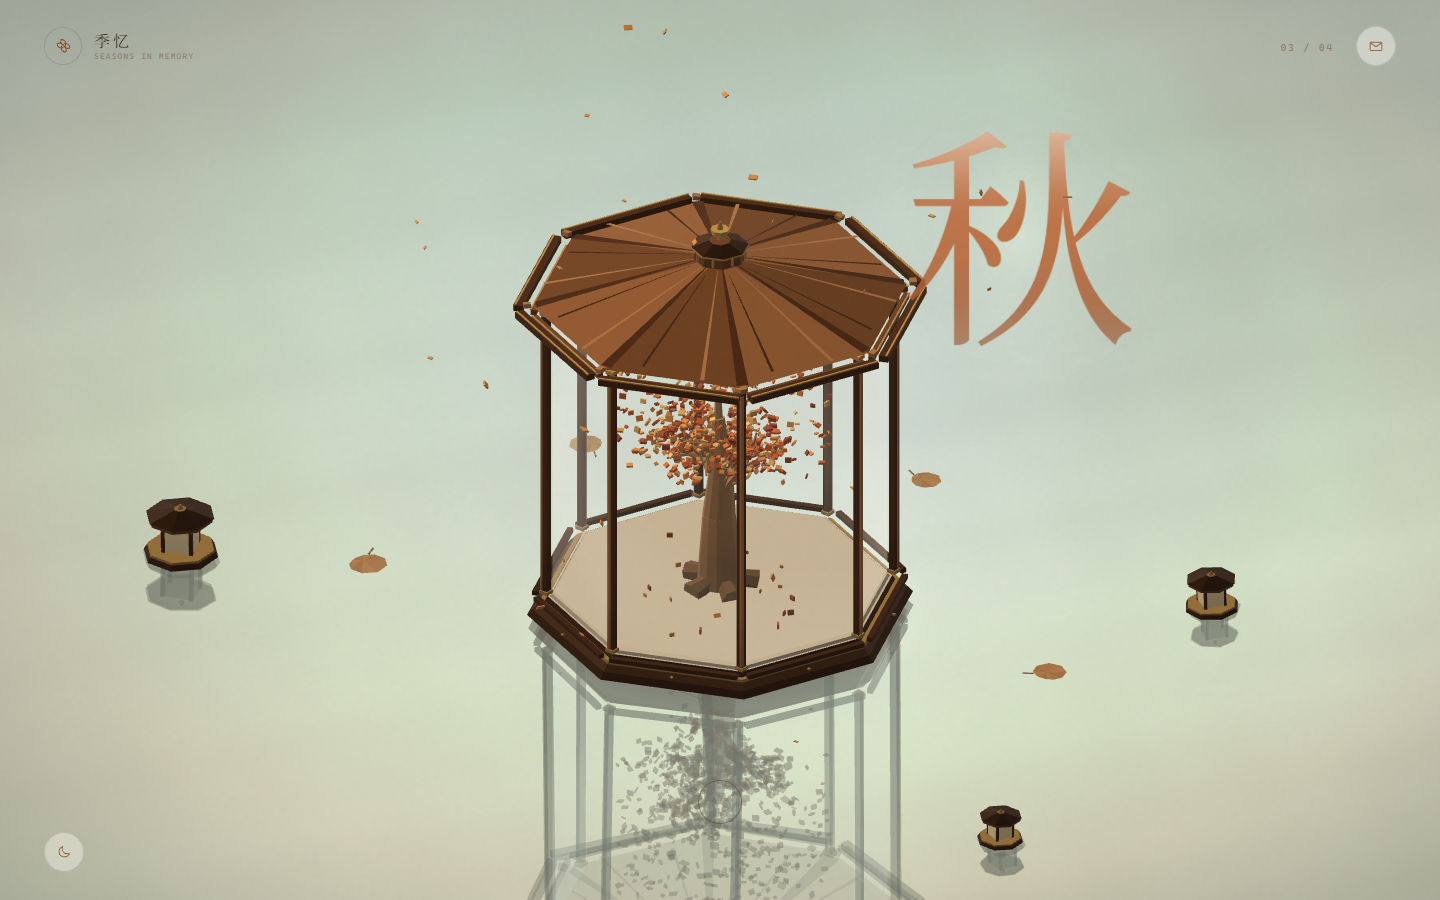
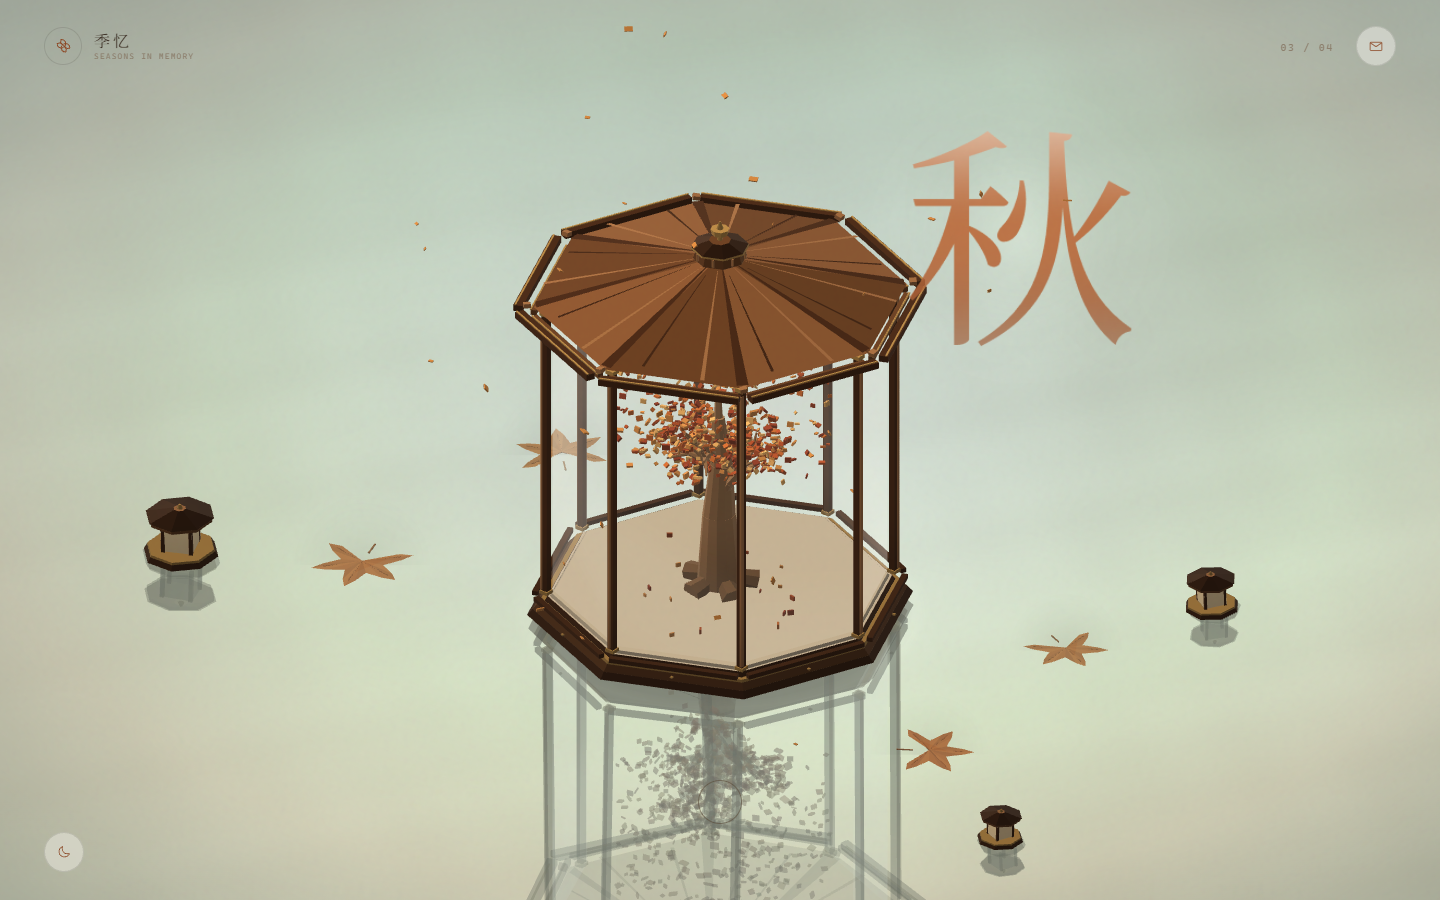
季忆 · 枫叶、碎花瓣、细茎粉荷与手机水景留白

diff --git a/assets/js/world.js b/assets/js/world.js
@@ -559,7 +559,7 @@
     return g;
   }
 
-  function buildMapleLeaf() {
+  function buildMapleLeafOld() {
     const g = Geo();
     const center = [0, 0.012, 0];
     const R = 0.46;
@@ -606,16 +606,44 @@
 
   function buildFloatPetal() {
     const g = Geo();
-    const N = 9;
+    const center = [0, 0.02, 0];
     const cols = [[1, 0.84, 0.88], [1, 0.9, 0.93], [0.98, 0.8, 0.86]];
-    const center = [0, 0.008, 0];
+    const N = 14;
     const pts = [];
     for (let i = 0; i < N; i++) {
       const a = (i / N) * TAU;
-      const r = 0.19 * (0.82 + 0.18 * Math.sin(a * 3.0 + 0.5));
-      pts.push([Math.cos(a) * r, 0.004, Math.sin(a) * r]);
+      const x = Math.sin(a) * 0.12 * (0.9 + 0.1 * Math.cos(2 * a));
+      const z = -0.05 + Math.cos(a) * 0.21;
+      pts.push([x, 0.006, z]);
     }
     for (let i = 0; i < N; i++) pushTri(g, center, pts[i], pts[(i + 1) % N], [0, 1, 0], cols[i % 3]);
+    return g;
+  }
+
+  function buildMapleLeaf() {
+    const g = Geo();
+    const center = [0, 0.02, 0];
+    const cols = [[0.72, 0.45, 0.22], [0.8, 0.52, 0.26], [0.64, 0.4, 0.2]];
+    const order = [-Math.PI / 6, Math.PI / 6, Math.PI / 2, (5 * Math.PI) / 6, (7 * Math.PI) / 6];
+    const pts = [];
+    for (let li = 0; li < 5; li++) {
+      const a = order[li];
+      const aPrev = order[(li + 4) % 5];
+      const aNext = order[(li + 1) % 5];
+      const aNotchL = (aPrev + a) / 2;
+      const aNotchR = (a + aNext) / 2;
+      pts.push([Math.cos(aNotchL) * 0.24, 0.004, Math.sin(aNotchL) * 0.24]);
+      pts.push([Math.cos(a - 0.16) * 0.42, 0.007, Math.sin(a - 0.16) * 0.42]);
+      pts.push([Math.cos(a) * 0.55, 0.01, Math.sin(a) * 0.55]);
+      pts.push([Math.cos(a + 0.16) * 0.42, 0.007, Math.sin(a + 0.16) * 0.42]);
+    }
+    for (let i = 0; i < pts.length; i++) pushTri(g, center, pts[i], pts[(i + 1) % pts.length], [0, 1, 0], cols[i % 3]);
+    for (let k = 0; k < 5; k++) {
+      const a = order[k];
+      const r = 0.42;
+      addBox(g, Math.cos(a) * r * 0.5, 0.012, Math.sin(a) * r * 0.5, 0.012, 0.005, r, hexToRgb('#7a4a28'), Math.PI / 2 - a, 0);
+    }
+    addBox(g, 0, 0.006, -0.3, 0.018, 0.008, 0.2, hexToRgb('#6e4a2c'), 0, 0);
     return g;
   }
 
@@ -896,7 +924,7 @@
     const smalls = [
       { xf: -1.15, zf: 0.55, s: 1.3, phase: 0.7, rot: 0.4 },
       { xf: 1.15, zf: 0.45, s: 0.8, phase: 2.4, rot: 1.2 },
-      { xf: 0.9, zf: -0.7, s: 1.0, phase: 4.1, rot: 2.6 },
+      { xf: 0.0, zf: 1.2, s: 1.0, phase: 4.1, rot: 2.6 },
     ];
     const lotusLeafMesh = renderer.makeMesh(buildLotusLeaf());
     const mapleMesh = renderer.makeMesh(buildMapleLeaf());
@@ -906,27 +934,29 @@
     const blossomMesh = renderer.makeMesh(buildBlossom());
     const decos = {
       spring: [
-        { t: 'blossom', x: -4.2, z: 1.8, rot: 0.4, s: 1.0, tint: [1, 0.86, 0.9] },
-        { t: 'blossom', x: 4.2, z: 1.2, rot: 2.0, s: 1.2, tint: [1, 0.92, 0.94] },
-        { t: 'blossom', x: -4.0, z: -1.8, rot: 4.2, s: 0.85, tint: [1, 0.8, 0.86] },
-        { t: 'blossom', x: 4.0, z: -1.8, rot: 1.3, s: 1.05, tint: [1, 0.9, 0.92] },
+        { t: 'float', x: -4.2, z: 1.8, rot: 0.4, s: 0.8, tint: [1, 0.86, 0.9] },
+        { t: 'float', x: 4.2, z: 1.2, rot: 2.0, s: 0.9, tint: [1, 0.92, 0.94] },
+        { t: 'float', x: -4.0, z: -1.8, rot: 4.2, s: 0.7, tint: [1, 0.8, 0.86] },
+        { t: 'float', x: 4.0, z: -1.8, rot: 1.3, s: 0.85, tint: [1, 0.9, 0.92] },
+        { t: 'float', x: -1.4, z: 3.4, rot: 5.1, s: 0.75, tint: [1, 0.84, 0.88] },
+        { t: 'float', x: 1.6, z: 3.2, rot: 3.3, s: 0.8, tint: [1, 0.88, 0.9] },
       ],
       summer: [
-        { t: 'leaf', x: -4.2, z: 1.0, rot: 0.2, s: 1.35 },
-        { t: 'leaf', x: 4.4, z: 0.2, rot: 1.8, s: 1.15 },
+        { t: 'leaf', x: -4.2, z: 1.8, rot: 0.2, s: 1.3 },
+        { t: 'leaf', x: 4.2, z: 1.2, rot: 1.8, s: 1.15 },
         { t: 'leaf', x: -4.0, z: -1.8, rot: 3.2, s: 1.0 },
-        { t: 'flower', x: 4.2, z: -0.6, rot: 1.0, s: 1.15 },
+        { t: 'flower', x: 4.0, z: -1.8, rot: 1.0, s: 1.25 },
       ],
       autumn: [
-        { t: 'leaf2', x: -4.2, z: 1.8, rot: 0.3, s: 1.35, tint: [1, 0.8, 0.62] },
-        { t: 'leaf2', x: 4.2, z: -1.2, rot: 2.1, s: 1.15, tint: [1, 0.72, 0.54] },
-        { t: 'leaf2', x: -3.8, z: -2.2, rot: 4.0, s: 1.2, tint: [1, 0.9, 0.74] },
-        { t: 'leaf2', x: 0.0, z: -4.0, rot: 1.2, s: 1.1, tint: [1, 0.84, 0.66] },
+        { t: 'maple', x: -4.2, z: 1.8, rot: 0.3, s: 1.15, tint: [1, 0.8, 0.62] },
+        { t: 'maple', x: 4.2, z: 1.2, rot: 2.1, s: 1.0, tint: [1, 0.72, 0.54] },
+        { t: 'maple', x: -4.0, z: -1.8, rot: 4.0, s: 1.1, tint: [1, 0.9, 0.74] },
+        { t: 'maple', x: 4.0, z: -1.8, rot: 1.2, s: 0.95, tint: [1, 0.84, 0.66] },
       ],
       winter: [
-        { t: 'ice', x: -4.2, z: 1.2, rot: 0.4, s: 1.35 },
-        { t: 'ice', x: 4.4, z: -0.8, rot: 1.6, s: 1.1 },
-        { t: 'ice', x: -2.4, z: -3.0, rot: 3.0, s: 1.2 },
+        { t: 'ice', x: -4.2, z: 1.8, rot: 0.4, s: 1.3 },
+        { t: 'ice', x: 4.2, z: 1.2, rot: 1.6, s: 1.1 },
+        { t: 'ice', x: -4.0, z: -1.8, rot: 3.0, s: 1.2 },
       ],
     };
 
@@ -1394,14 +1424,14 @@
       const smallPos = (S) => {
         const sx = spread * S.xf + Math.sin(wt * 0.12 + S.phase) * 0.1;
         const sz = spread * S.zf + Math.cos(wt * 0.1 + S.phase) * 0.08;
-        const bob = 0.012 + 0.01 * Math.sin(wt * 0.8 + S.phase);
+        const bob = 0.016 + 0.014 * Math.sin(wt * 0.8 + S.phase);
         const sc = S.s * (1.0 + 0.035 * Math.sin(wt * 0.55 + S.phase));
         return [sx, sz, bob, sc];
       };
       for (let si = 0; si < smalls.length; si++) {
         const S = smalls[si];
         const [sx, sz, bob, sc] = smallPos(S);
-        m4.compose(matA, sx, bob, sz, S.rot + wt * 0.02, 0.02 * Math.sin(wt * 0.6 + S.phase), 0.02 * Math.cos(wt * 0.5 + S.phase), sc, sc, sc);
+        m4.compose(matA, sx, bob, sz, S.rot + wt * 0.02, 0.03 * Math.sin(wt * 0.6 + S.phase), 0.03 * Math.cos(wt * 0.5 + S.phase), sc, sc, sc);
         m4.multiply(matD, mirror, matA);
         renderer.drawMesh(smallFrameMesh, matD, { ghost: true, opacity: 0.2, dim: 0.6, wave: 1 });
         renderer.drawMesh(smallPaperMesh, matD, { ghost: true, opacity: 0.2, dim: 0.6, wave: 1, emissive: 0.03 + night * 0.4 });
@@ -1417,8 +1447,9 @@
       const i0 = Math.floor(slot) % 4;
       const f = slot - Math.floor(slot);
       const i1 = (i0 + 1) % 4;
-      const decoSpread = clamp(layout.aspect * 1.8 + 1.7, 2.9, 4.0);
+      const decoSpread = clamp(layout.aspect * 1.8 + 1.7, 3.6, 4.0);
       const dxs = decoSpread / 4.0;
+      const narrow = layout.aspect < 0.7;
       const summerPal = PALETTES[1];
       const flowerTint = [1, 0.68, 0.76];
       const wSummer = i0 === 1 ? 1 - f : (i1 === 1 ? f : 0);
@@ -1426,11 +1457,12 @@
       const drawLotusFlower = (d, w, refl) => {
         const x = d.x * dxs;
         const z = d.z * dxs;
-        const sc = d.s * (0.9 + 0.12 * dxs);
-        const bob = 0.012 * Math.sin(wt * 0.8 + d.x);
-        const sway = 0.035 * Math.sin(wt * 0.5 + d.z);
-        const tiltX = 0.012 * Math.sin(wt * 0.4 + d.x);
-        const tiltZ = 0.015 * Math.cos(wt * 0.35 + d.z);
+        const ease = w * w * (3 - 2 * w);
+        const sc = d.s * (0.9 + 0.12 * dxs) * (0.7 + 0.3 * ease);
+        const bob = 0.018 * Math.sin(wt * 0.8 + d.x);
+        const sway = 0.055 * Math.sin(wt * 0.45 + d.z);
+        const tiltX = 0.025 * Math.sin(wt * 0.38 + d.x);
+        const tiltZ = 0.032 * Math.cos(wt * 0.33 + d.z);
         m4.compose(matA, x, 0.02 + bob, z, d.rot + sway, tiltX, tiltZ, sc, sc, sc);
         if (refl) m4.multiply(matD, mirror, matA);
         const base = refl ? matD : matA;
@@ -1438,7 +1470,7 @@
         const ghost = refl;
         const wave = refl ? 0.6 : 0;
         // stem
-        m4.compose(matB, 0, 0, 0, 0, 0, 0, 0.95, 0.62, 0.95);
+        m4.compose(matB, 0, 0, 0, 0, 0, 0, 0.5, 0.62, 0.5);
         m4.multiply(matC, base, matB);
         renderer.drawMesh(stemMesh, matC, { tint: [0.32, 0.46, 0.22], tintMix: 1, opacity: op, ghost, wave });
         // two rings of petals
@@ -1447,7 +1479,7 @@
           for (let pi = 0; pi < n; pi++) {
             const a = (pi / n) * TAU + (ri ? 0.5 : 0);
             const tilt = ri ? 0.55 : 1.02;
-            m4.compose(matB, 0, 0.62, 0, a, tilt, 0, 0.2, 0.34, 0.2);
+            m4.compose(matB, 0, 0.62, 0, a, tilt, 0, 0.3, 0.5, 0.3);
             m4.multiply(matC, base, matB);
             renderer.drawMesh(petalMesh, matC, {
               tint: flowerTint, tintMix: 1, opacity: op, ghost, wave,
@@ -1456,7 +1488,7 @@
           }
         }
         // heart
-        m4.compose(matB, 0, 0.66, 0, 0, 0, 0, 0.12, 0.12, 0.12);
+        m4.compose(matB, 0, 0.66, 0, 0, 0, 0, 0.18, 0.18, 0.18);
         m4.multiply(matC, base, matB);
         renderer.drawMesh(flowerCoreMesh, matC, { opacity: op, ghost, wave, emissive: 0.08 });
       };
@@ -1466,16 +1498,18 @@
         const list = decos[key];
         if (!list) return;
         for (let di = 0; di < list.length; di++) {
+          if (narrow && di >= 3) break;
           const d = list[di];
           if (d.t === 'flower') continue;
-          const x = d.x * dxs + Math.sin(wt * 0.1 + di) * 0.05;
-          const z = d.z * dxs + Math.cos(wt * 0.08 + di) * 0.04;
-          const sc = d.s * (0.9 + 0.12 * dxs);
+          const x = d.x * dxs + Math.sin(wt * 0.1 + di) * 0.08;
+          const z = d.z * dxs + Math.cos(wt * 0.08 + di) * 0.06;
+          const ease = w * w * (3 - 2 * w);
+          const sc = d.s * (0.9 + 0.12 * dxs) * (0.7 + 0.3 * ease);
           const y = 0.035;
-          const bob = 0.01 * Math.sin(wt * 0.9 + di * 1.7);
-          const sway = 0.06 * Math.sin(wt * 0.32 + di * 1.9);
-          const pitch = 0.018 * Math.sin(wt * 0.55 + di * 1.3);
-          const roll = 0.022 * Math.cos(wt * 0.43 + di * 1.1);
+          const bob = 0.018 * Math.sin(wt * 0.9 + di * 1.7);
+          const sway = 0.12 * Math.sin(wt * 0.32 + di * 1.9);
+          const pitch = 0.035 * Math.sin(wt * 0.55 + di * 1.3);
+          const roll = 0.045 * Math.cos(wt * 0.43 + di * 1.1);
           m4.compose(matA, x, y + bob, z, d.rot + sway, pitch, roll, sc, sc, sc);
           renderer.setDepth(false, true);
           m4.billboard(matD, camera.right, camera.up, camera.back, [x, 0.006, z], 0, sc * 1.5, sc * 1.5);
@@ -1484,17 +1518,17 @@
           let mesh = iceMesh;
           let tint = [0.8, 0.9, 0.96];
           let mix = 0.35;
-          let op = w * 0.5;
+          let op = w * 0.5 * ease;
           if (d.t === 'blossom') {
-            mesh = blossomMesh; tint = d.tint; mix = 1; op = w * 0.95;
+            mesh = blossomMesh; tint = d.tint; mix = 1; op = w * 0.95 * ease;
           } else if (d.t === 'float') {
-            mesh = floatPetalMesh; tint = d.tint; mix = 1; op = w * 0.92;
+            mesh = floatPetalMesh; tint = d.tint; mix = 1; op = w * 0.92 * ease;
           } else if (d.t === 'leaf2') {
-            mesh = floatLeafMesh; tint = d.tint; mix = 0.45; op = w * 0.94;
+            mesh = floatLeafMesh; tint = d.tint; mix = 0.45; op = w * 0.94 * ease;
           } else if (d.t === 'leaf') {
-            mesh = lotusLeafMesh; op = w * 0.94;
+            mesh = lotusLeafMesh; op = w * 0.94 * ease;
           } else if (d.t === 'maple') {
-            mesh = mapleMesh; tint = d.tint; mix = 0.5; op = w * 0.94;
+            mesh = mapleMesh; tint = d.tint; mix = 0.5; op = w * 0.94 * ease;
           }
           renderer.drawMesh(mesh, matA, { tint, tintMix: mix, opacity: op });
         }
@@ -1537,7 +1571,7 @@
       for (let si = 0; si < smalls.length; si++) {
         const S = smalls[si];
         const [sx, sz, bob, sc] = smallPos(S);
-        m4.compose(matA, sx, bob, sz, S.rot + wt * 0.02, 0.02 * Math.sin(wt * 0.6 + S.phase), 0.02 * Math.cos(wt * 0.5 + S.phase), sc, sc, sc);
+        m4.compose(matA, sx, bob, sz, S.rot + wt * 0.02, 0.03 * Math.sin(wt * 0.6 + S.phase), 0.03 * Math.cos(wt * 0.5 + S.phase), sc, sc, sc);
         renderer.drawMesh(smallFrameMesh, matA);
         renderer.drawMesh(smallPaperMesh, matA, { emissive: 0.12 + night * 0.8 });
       }

diff --git a/assets/js/app.js b/assets/js/app.js
@@ -89,7 +89,7 @@
     let halfH;
     if (narrow) {
       // portrait / square: a large lantern, glyph above it
-      halfH = Math.max(8.0, 7.4 / (2 * aspect));
+      halfH = Math.max(9.0, 8.4 / (2 * aspect));
       if (mobile) {
         halfH = Math.max(halfH, (9.2 / (availableH / h)) * 0.5);
       }

diff --git a/README.md b/README.md
@@ -77,7 +77,7 @@ npx serve .
 - **摘盖**：每圈开花时，玻璃罩（屋顶 + 木柱 + 玻璃）在抬升的同时轻微向右后方漂移并旋转，配合同一条平滑曲线，摘盖过程更连贯。
 - **水面**：四层不同方向/速度的风波 + 两层细毛细波 + 慢涌 + 噪声阵风，形成大小不一的斑块和高光；微波动画持续，不受季节定格冻结。
 - **写实涟漪**：下沉时水面出现**细同心环**——它们只扰动水面的法线/明暗与局部高光，不是叠加的白色光圈；圈数收敛到 2–3 圈，从浮板边向外扩散，先变宽再减速，在约 7 秒内平滑淡出。
-- **季节水景**：春有 4 朵浮花；夏有 3 片圆荷叶 + 1 朵粉荷；秋有 4 片大小/颜色不同的落叶；冬有 3 块软薄冰。花瓣、叶子、荷叶、冰片都是带弧度或厚度的 3D 网格，平贴水面漂浮，不是零厚度贴图；每片有缓慢漂移、上下起伏、左右摆动和轻微倾斜，并带柔和接触阴影；荷花有倒影。
+- **季节水景**：春有 6 片小花瓣（手机 3 片）；夏有 3 片圆荷叶 + 1 朵更大的粉荷、细茎；秋有 4 片枫叶；冬有 3 块薄冰。同一组锚点换季，用缩放 + 淡入淡出过渡。花瓣、叶子、荷叶、冰片都是带弧度或厚度的 3D 网格，平贴水面漂浮，不是零厚度贴图；每片有缓慢漂移、上下起伏、左右摆动和轻微倾斜，并带柔和接触阴影；荷花有倒影。
 - **花**：**每转满一圈开一次**。没有大「花」字；树干淡出，花从浮板上长出细绿色花茎和四片叶子；花瓣比之前略小。继续转动，花收回、树恢复。
 - **季节字**：从亭子内部向上升约 2.2 单位，透明度 0→0.98；位置上移到 0.24 / 0.30（桌面 / 手机）；白天用干净的深色季节渐变 + 柔和光晕，避免和浅色背景混在一起；阴影压到 0.035。
 - **夜间**：没有左上角光源；灯笼内部变亮，成为唯一主光；水灯、荷花、萤火和少量星点一起发光。
@@ -129,7 +129,7 @@ four-seasons/
 - 水面灯：三盏分布在左、右、右下，大小 1.3 / 0.8 / 1.0，带轻微呼吸大小和浮动。
 - 开花：每圈一次，罩子带漂移/倾斜抬离；圆点变空心花；礼物红点出现。
 - 水面：四层风纹 + 噪声阵风 + 高光，持续动画。
-- 手机 390×844：圆点、提示、礼物、昼夜按钮不重叠；信卡隐藏。
+- 手机 390×844：拉开相机后三盏水灯全部可见；只保留 3 片季节水景，四周留白增加；圆点、提示、礼物、昼夜按钮不重叠。
 - 页面无运行时报错；水面浮花/落叶/荷叶/薄冰已水平漂浮并带缓慢动效；毛细微波持续动画；已 push 到 `main`。
 
 ## 说明
@@ -137,5 +137,6 @@ four-seasons/
 - 页面无网络请求；`docs/` 仅是预览图。
 - 字体：Noto Serif SC 子集，SIL Open Font License 1.1。
 - 支持 `prefers-reduced-motion`。
+
 
 
